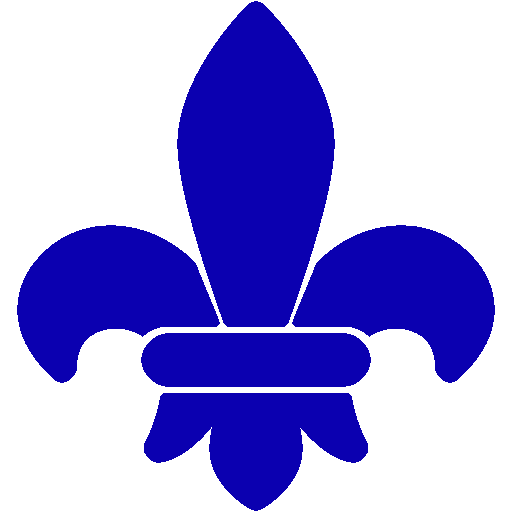
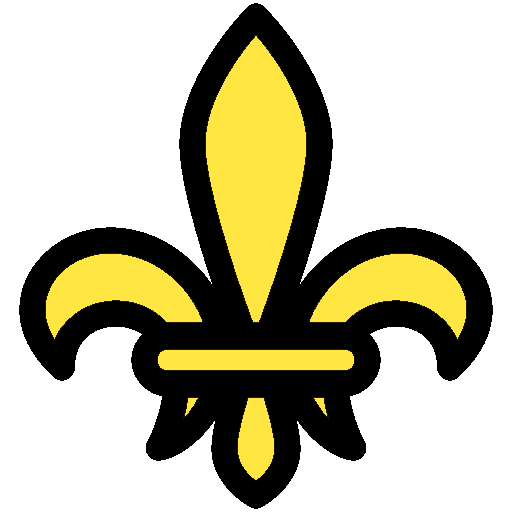
Advanced implementation of like (not finished)

diff --git a/src/js/like.js b/src/js/like.js
@@ -1,8 +1,8 @@
-let flower = document.querySelectorAll(".flower");
+let like = document.querySelectorAll(".btn.btn-success.border-dark");
 
 const callBackFunctionLike = () => {
-    flower.forEach(element => {
-        const idPost = element.dataset.idPost;
+    like.forEach(element => {
+        const idPost = element.getAttribute("data-postid");
         const formData = new FormData();
         formData.append('idPost', idPost);
 
@@ -16,27 +16,27 @@ const callBackFunctionLike = () => {
     });
 }
 
-flower.forEach((element) => element.addEventListener("click", function() {
-    const idPost = element.getAttribute("idPost");
-    miPiace(this, idPost);
-}));
-
-function miPiace(button, idPost){
+Array.from(like).forEach((button) => button.addEventListener("click", function() {
+    const idPost = button.getAttribute("data-postid");
     const formData = new FormData();
     formData.append('idPost', idPost);
 
     if(button.classList.contains("liked")){
         button.classList.remove("liked");
         formData.append('remove', true);
-        like(formData, true);
+        miPiace(formData, true);
     }
     else if(!button.classList.contains("liked")){
         button.classList.add("liked");
-        like(formData, false);
+        miPiace(formData, false);
     }
-}
 
-function like(formData, isRemoved) {
+    const isLiked = button.classList.contains("liked");
+    const imageSrc = isLiked ? 'symbol_liked.png' : 'symbol.png';
+    button.querySelector('image').setAttribute('xlink:href','./img/' + imageSrc);
+}));
+
+function miPiace(formData, isRemoved) {
     axios.post('./api/like-api.php', formData).then(response => {
 
         //send notification if like not removed
@@ -50,16 +50,3 @@ function like(formData, isRemoved) {
 
     });
 }
-
-/**
- * Observer to check updatePost container changes and then trigger callback 
- *
-const postContainerLike = document.getElementById('postContainer');
-callBackFunctionLike()
-
-var MutationObserver = window.MutationObserver || window.WebKitMutationObserver || window.MozMutationObserver;
-var observerLike = new MutationObserver(callBackFunctionLike);
-observerLike.observe(postContainerLike, {
-    childList: true
-});
-*/

diff --git a/src/profile.php b/src/profile.php
@@ -1,26 +1,24 @@
 <?php
-require_once 'home-post.php';
+require_once("db_config.php");
 
-//redirect if not auth
-if(!$templateParams["isAuth"] || !isset($_GET["id"])){
+//check user auth
+$templateParams["isAuth"] = userIsAlreadyIn($dbh->db);
+
+if ($templateParams["isAuth"]) {
+    $loggedUserId = $_SESSION["username"];
+    $templateParams["userposts"] = $dbh->getPostByUsername($loggedUserId);
+    $templateParams["notifiche"] = $dbh->getNotificationsByUsername($loggedUserId);
+    $templateParams["loggedUserSeguiti"] = $dbh->getSeguitiByUsername($loggedUserId);
+    $templateParams["loggedUserSeguaci"] = $dbh->getFollowerByUsername($loggedUserId);
+    $templateParams["utente"] = $dbh->getUserByUsername($loggedUserId);
+} else{
     header('Location: index.php');
 }
 
-$currentUserId = $_GET["id"];
-
-$templateParams["titolo"] = "OnTopic - Profilo";
-$templateParams["contenuto"] = "profilo-template.php";
-
-/* Controllo se il qp è corretto*/
-$templateParams["utenteProfilo"] = $dbh->getUserByUsername($currentUserId);
-if(!$templateParams["utenteProfilo"]) {
-    header('Location: index.php');
-}
-
-$templateParams["posts"] = $dbh->getPostByUsername($currentUserId);
-$templateParams["seguaci"] = $dbh->getFollowerByUsername($currentUserId);
-$templateParams["seguiti"] = $dbh->getSeguitiByUsername($currentUserId);
-array_push($templateParams["js"], "js/follow.js", "js/usersList.js");
+$templateParams["titolo"] = "Profilo";
+$templateParams["nome"] = "show-profile.php";
+$templateParams["js"] = array("js/read-notifications.js", "js/comments-list.js", "utils/function.js",
+                                "js/add-post.js", "js/post-management.js", "js/modify-post.js");
 
 require 'template/base-homepage.php';
 ?>

diff --git a/src/home-post.php b/src/home-post.php
@@ -4,19 +4,17 @@ require_once("db_config.php");
 //check user auth
 $templateParams["isAuth"] = userIsAlreadyIn($dbh->db);
 
-$templateParams["posts"] = $dbh->showPostorderByDate($_SESSION["username"]);
-
 if ($templateParams["isAuth"]) {
     $loggedUserId = $_SESSION["username"];
     $templateParams["notifiche"] = $dbh->getNotificationsByUsername($loggedUserId);
     $templateParams["loggedUserSeguiti"] = $dbh->getSeguitiByUsername($loggedUserId);
+    $templateParams["posts"] = $dbh->showPostorderByDate($loggedUserId);
     $templateParams["utente"] = $dbh->getUserByUsername($loggedUserId);
-
-    $templateParams["js"] = array("js/read-notifications.js", "js/like.js", "js/comments-list.js",
-                                    "utils/function.js", "js/add-post.js", "js/new-comment.js");
-} else {
-    $templateParams["js"] = array("utils/function.js");
+} else{
+    header('Location: index.php');
 }
 
+$templateParams["js"] = array("js/read-notifications.js", "js/like.js", "js/comments-list.js",
+                                "utils/function.js", "js/add-post.js");
 require 'template/base-homepage.php';
 ?>

diff --git a/src/template/show-post-home.php b/src/template/show-post-home.php
@@ -33,11 +33,11 @@
                         </svg>
                     </button>
                     <button class="btn btn-success border-dark" type="button" data-postid=<?php echo $post["IDPost"]; ?>>
-                        <svg width="20" height="20" xmlns="http://www.w3.org/2000/svg" viewBox="1 1 16 16">
-                            <image href="./img/symbol.png" height="17.5" width="17.5"/>
+                        <svg width="20" height="20" xmlns="http://www.w3.org/2000/svg" xmlns:xlink="http://www.w3.org/1999/xlink" viewBox="1 1 16 16">
+                            <image xlink:href="./img/symbol.png" height="17.5" width="17.5"/>
                         </svg>
                     </button>
-                    <a href="#" class="like" data-postid="<?php echo $post["IDPost"]; ?>" id="like-<?php echo $post["IDPost"]; ?>"></a>
+                    <a href="#" class="likenumber" data-postid="<?php echo $post["IDPost"]; ?>" id="like-<?php echo $post["IDPost"]; ?>"></a>
                 </div>
                 <!--<script>
                     window.addEventListener('DOMContentLoaded', (event) => {

diff --git a/src/search.php b/src/search.php
@@ -9,15 +9,12 @@ if ($templateParams["isAuth"]) {
     $templateParams["notifiche"] = $dbh->getNotificationsByUsername($loggedUserId);
     $templateParams["loggedUserSeguiti"] = $dbh->getSeguitiByUsername($loggedUserId);
     $templateParams["utente"] = $dbh->getUserByUsername($loggedUserId);
-}
-
-//redirect if not auth
-if(!$templateParams["isAuth"]){
+} else{
     header('Location: index.php');
 }
 
 $templateParams["titolo"] = "Cerca";
-$templateParams["contenuto"] = "show-search.php";
+$templateParams["name"] = "show-search.php";
 $templateParams["js"] = array("js/read-notifications.js", "utils/functions.js", "js/add-post.js", "js/search.js");
 
 require 'template/base-homepage.php';

diff --git a/src/db/database.php b/src/db/database.php
@@ -701,7 +701,7 @@ class DatabaseHelper {
 
     public function insertLike($idPost, $username_sender) {
         $query = "
-            INSERT INTO like (idPost, username)
+            INSERT INTO mipiace (idPost, username)
             VALUES (?, ?)
         ";
         //insert a new like
@@ -716,7 +716,7 @@ class DatabaseHelper {
 
     public function removelike($idPost, $username) {
         $query = "
-            DELETE FROM like
+            DELETE FROM mipiace
             WHERE idPost = ? AND username = ?
         ";
 
